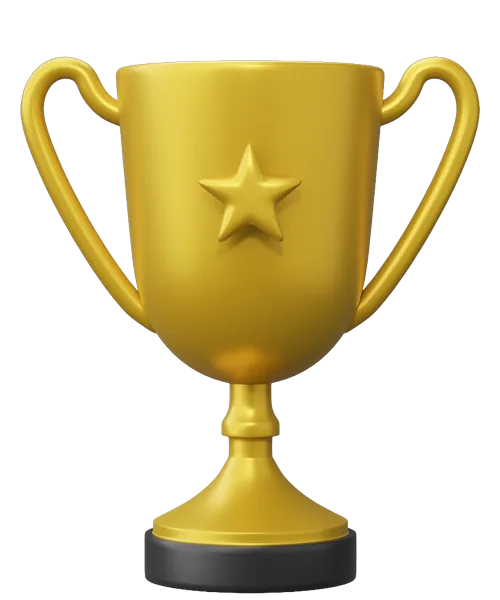
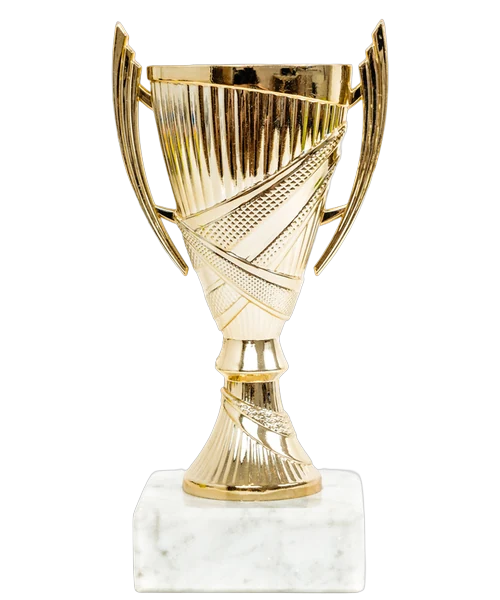
Taça da copa continental de seleções em foto real (Adobe Stock 298742334)
Substitui a taça em estilo cartoon por foto de taça dourada com base de mármore, fundo removido no Photoshop, no formato 500x600 das demais.

Claude-Session: https://claude.ai/code/session_01DzC1iPZRvQBDzWEqQxLNgq

diff --git a/arte/CREDITOS.md b/arte/CREDITOS.md
@@ -32,7 +32,7 @@ A licença do Adobe Stock permite uso em projetos, mas não a redistribuição d
 | tacas/continental.webp | 551381312 | Isolated golden soccer trophy of football sport | Continental de clubes |
 | tacas/mundial.webp | 1847683082 | Isolated Star trophy with gold base | Mundial de Clubes |
 | tacas/copaMundo.webp | 387718989 | Gold star trophy isolated on black | Copa do Mundo |
-| tacas/continentalSelecao.webp | 605130756 | Golden champion trophy cup award with gold star | Copa continental de seleções |
+| tacas/continentalSelecao.webp | 298742334 | Golden cup isolated on white background (fundo removido no Photoshop) | Copa continental de seleções — substituiu a 605130756, em estilo cartoon |
 | tacas/segunda.webp | 1649183514 | A classic bronze trophy cup | Segunda divisão |
 
 Todas são taças genéricas de banco de imagens; nenhuma reproduz troféu oficial de competição real.

diff --git a/CHANGELOG.md b/CHANGELOG.md
@@ -35,6 +35,12 @@ Tudo que mudou desde a primeira versão publicada, organizado por bloco de traba
 
 ---
 
+## 🏆 Taça da copa continental de seleções em foto real
+
+- A taça da copa continental de seleções era a única em estilo cartoon. Foi trocada por uma foto real de taça dourada com base de mármore (Adobe Stock, licença gratuita, fundo removido no Photoshop), no mesmo formato das outras.
+
+---
+
 ## 🖼 Fim de carreira com imagens no lugar de emojis (Modo Rápido)
 
 - **Medalhão do legado:** o nível final ganhou um medalhão na cor do nível — escudo do clube da sua vida (em cinza para "Promessa esquecida", do clube onde virou ídolo para "Ídolo de clube"), taça ou Bola de Ouro para "Lenda do futebol" e a gema para "A Joia".
